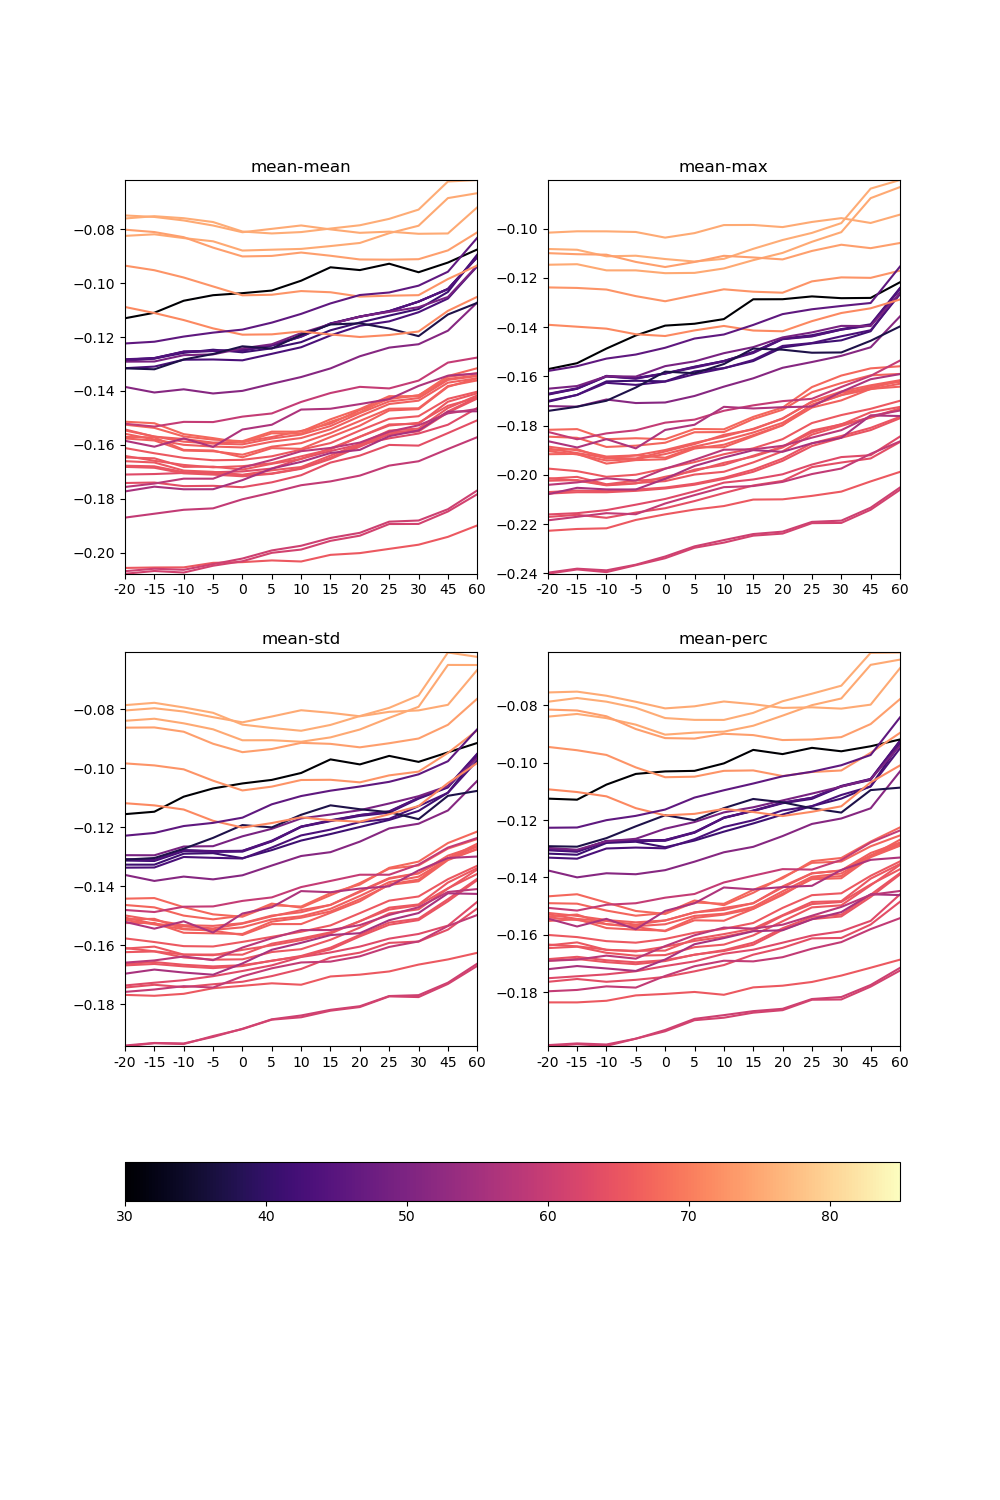
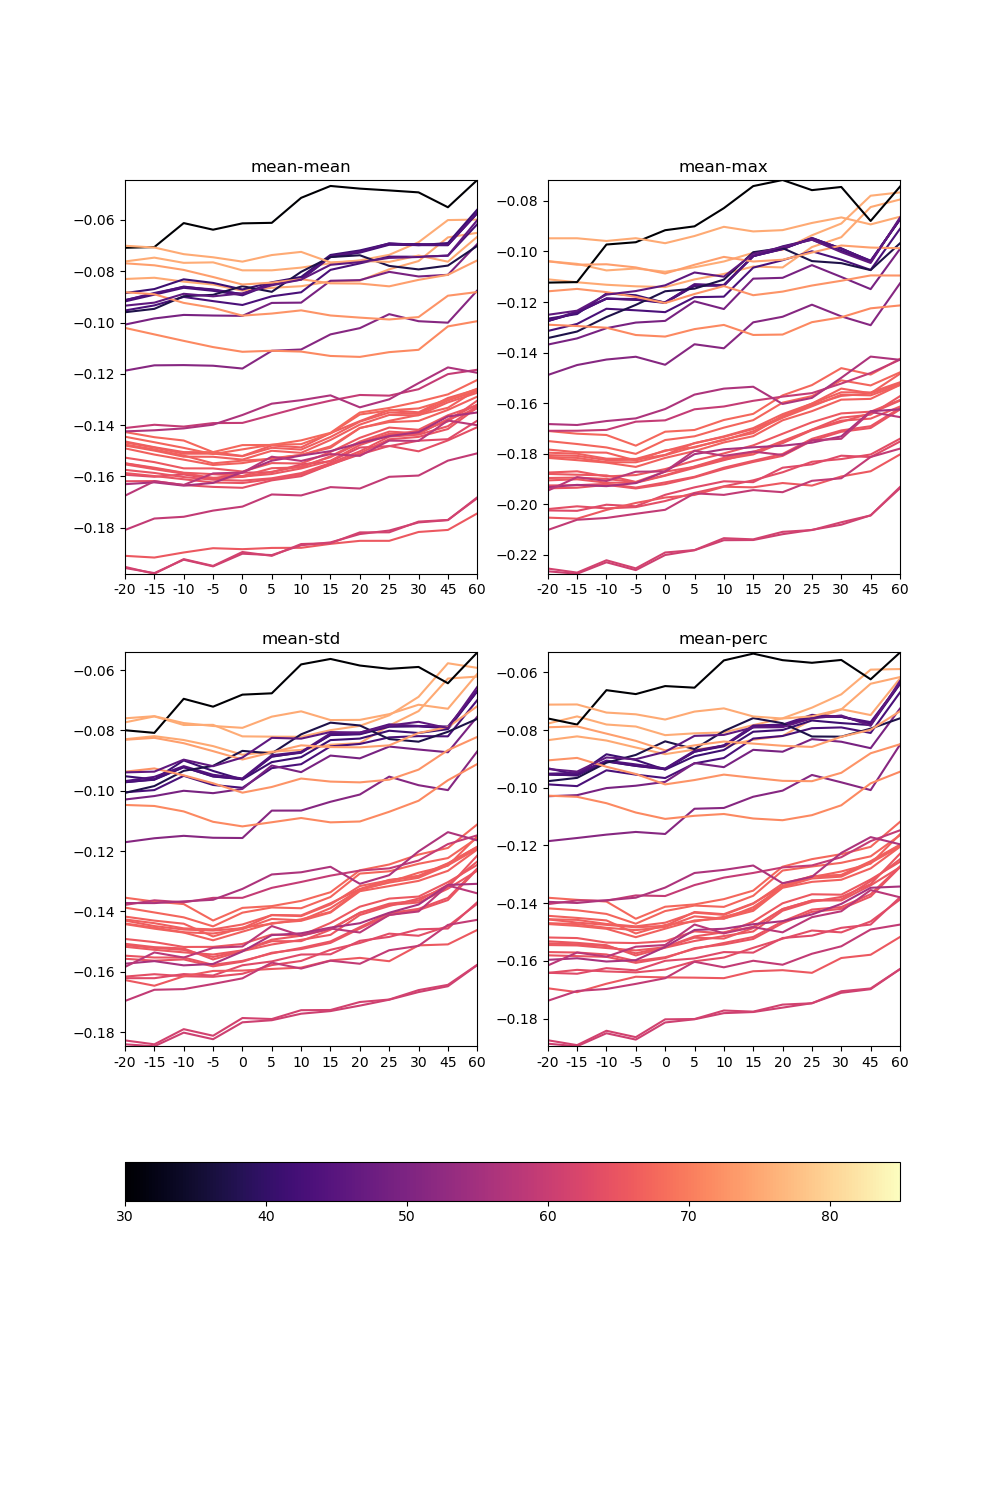
updates

Changed region(s): [[0.093, 0.1227, 0.899, 0.3987], [0.093, 0.4293, 0.899, 0.7053]]

diff --git a/time_correlation.py b/time_correlation.py
@@ -157,7 +157,7 @@ def calculating_correlations(regions, maps, delays):
 
 			# modify these lines to look at the max in a rolling window
 			indexer = pd.api.indexers.FixedForwardWindowIndexer(window_size=10)			# Yeah this is annoying, have to create a forward rolling indexer because it won't do it automatically.
-			combined_df[f'shifted_mean_{delay}_max'] = combined_df[f'shifted_mean_{delay}'].rolling(indexer, min_periods=1).mean()		# creates new column in the df labeling the maximum parameter value in the forecast:forecast+window time frame
+			combined_df[f'shifted_mean_{delay}_max'] = combined_df[f'shifted_mean_{delay}'].rolling(indexer, min_periods=1).max()		# creates new column in the df labeling the maximum parameter value in the forecast:forecast+window time frame
 			combined_df[f'shifted_max_{delay}_max'] = combined_df[f'shifted_max_{delay}'].rolling(indexer, min_periods=1).max()		# creates new column in the df labeling the maximum parameter value in the forecast:forecast+window time frame
 			# df.reset_index(drop=True, inplace=True)
 
